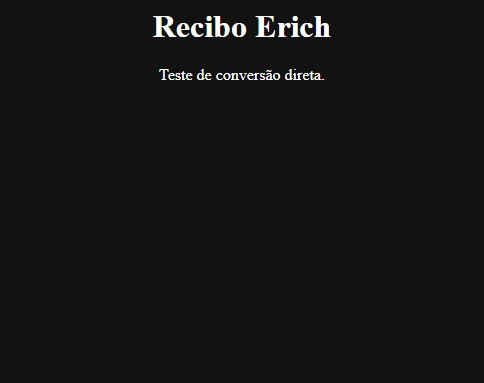
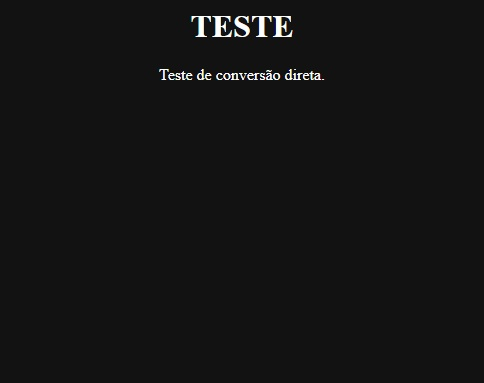
resolve erro browser

Changed region(s): [[0.3099, 0.0287, 0.6818, 0.1149]]

diff --git a/vendor/composer/installed.php b/vendor/composer/installed.php
@@ -3,7 +3,7 @@
         'name' => 'erichfournier/html-to-image-php',
         'pretty_version' => 'dev-main',
         'version' => 'dev-main',
-        'reference' => 'ca518bdf064c3adb5fee463efb329615466249bb',
+        'reference' => 'fea75adb8dcff0f4e3544b8e745ba5c3ce93bb05',
         'type' => 'library',
         'install_path' => __DIR__ . '/../../',
         'aliases' => array(),
@@ -31,7 +31,7 @@
         'erichfournier/html-to-image-php' => array(
             'pretty_version' => 'dev-main',
             'version' => 'dev-main',
-            'reference' => 'ca518bdf064c3adb5fee463efb329615466249bb',
+            'reference' => 'fea75adb8dcff0f4e3544b8e745ba5c3ce93bb05',
             'type' => 'library',
             'install_path' => __DIR__ . '/../../',
             'aliases' => array(),

diff --git a/teste.php b/teste.php
@@ -4,8 +4,8 @@ require 'vendor/autoload.php';
 
 use ErichFournier\HtmlToImagePhp\HtmlConverter;
 
-$html = "<h1 style='text-align: center; color: #ffffff;'>Recibo Erich</h1><p style='text-align: center; color: #ffffff;'>Teste de conversão direta.</p>";
-
+$html = "<h1 style='text-align: center; color: #ffffff;'>TESTE</h1><p style='text-align: center; color: #ffffff;'>Teste de conversão direta.</p>";
+ 
 try {
     HtmlConverter::make($html)
         ->setDimensions(370, 530)

diff --git a/src/HtmlConverter.php b/src/HtmlConverter.php
@@ -29,10 +29,6 @@ class HtmlConverter
 
     public function save(string $path): void
     {
-        if (strtoupper(substr(PHP_OS, 0, 3)) === 'WIN') {
-            @exec('taskkill /F /IM chrome.exe /T');
-        }
-
         $browserFactory = new BrowserFactory();
         
         $browser = $browserFactory->createBrowser([
